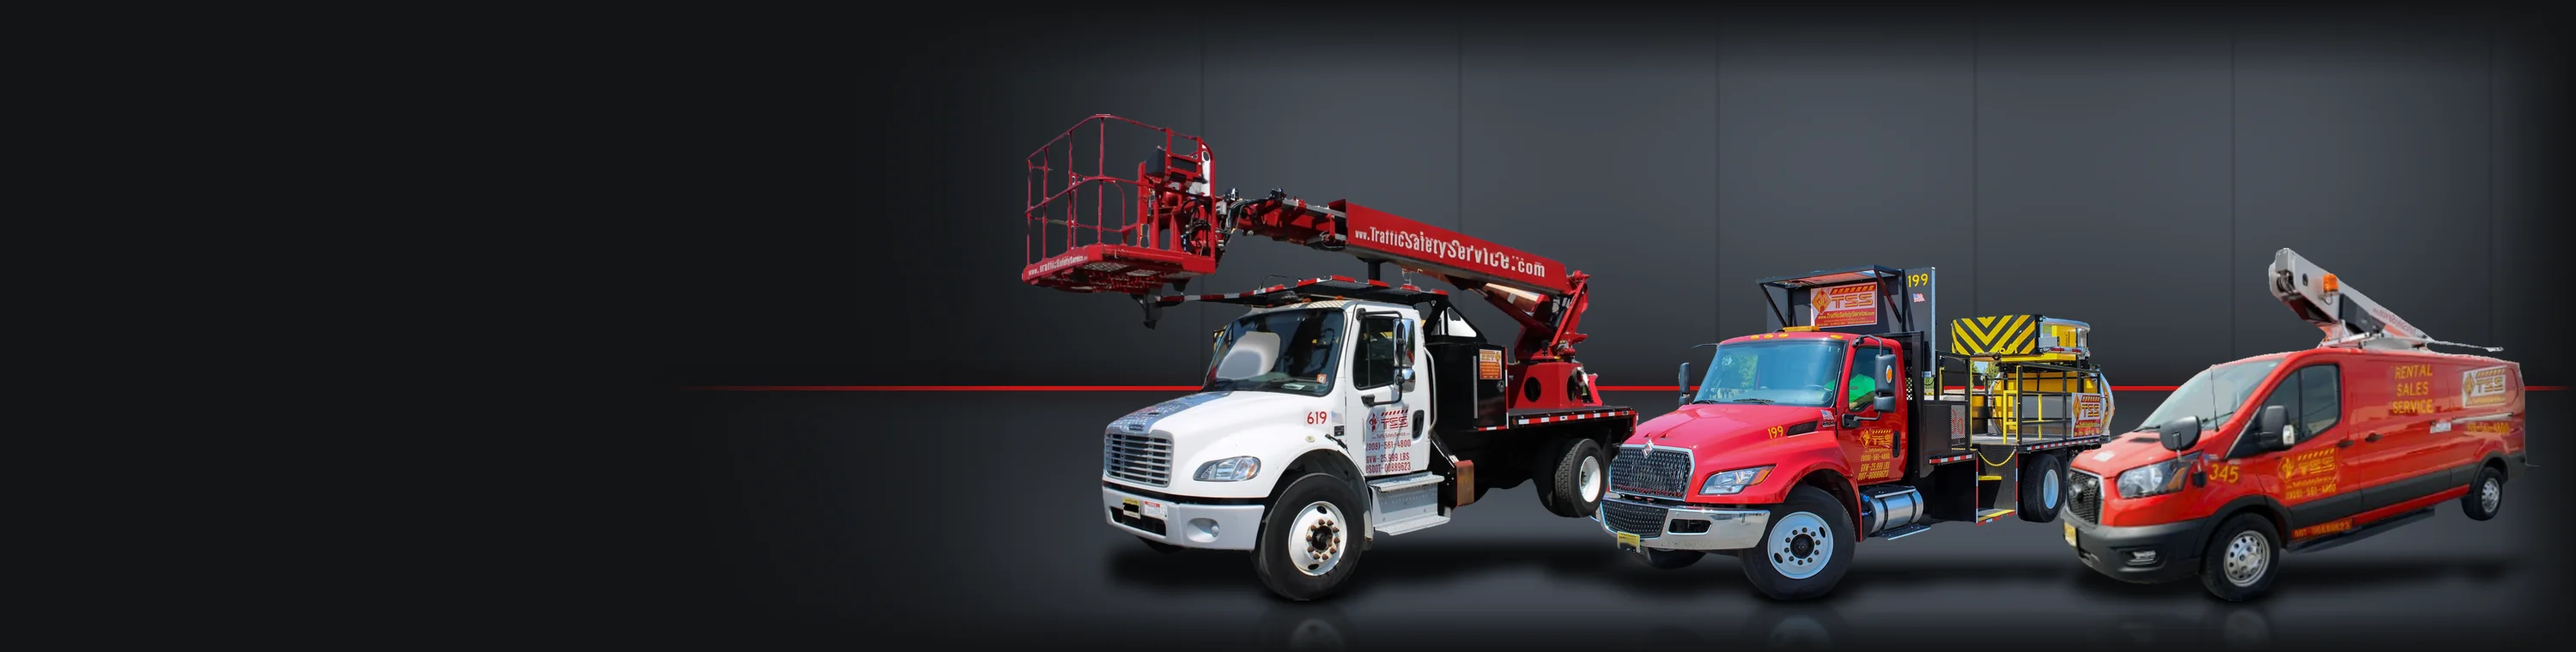
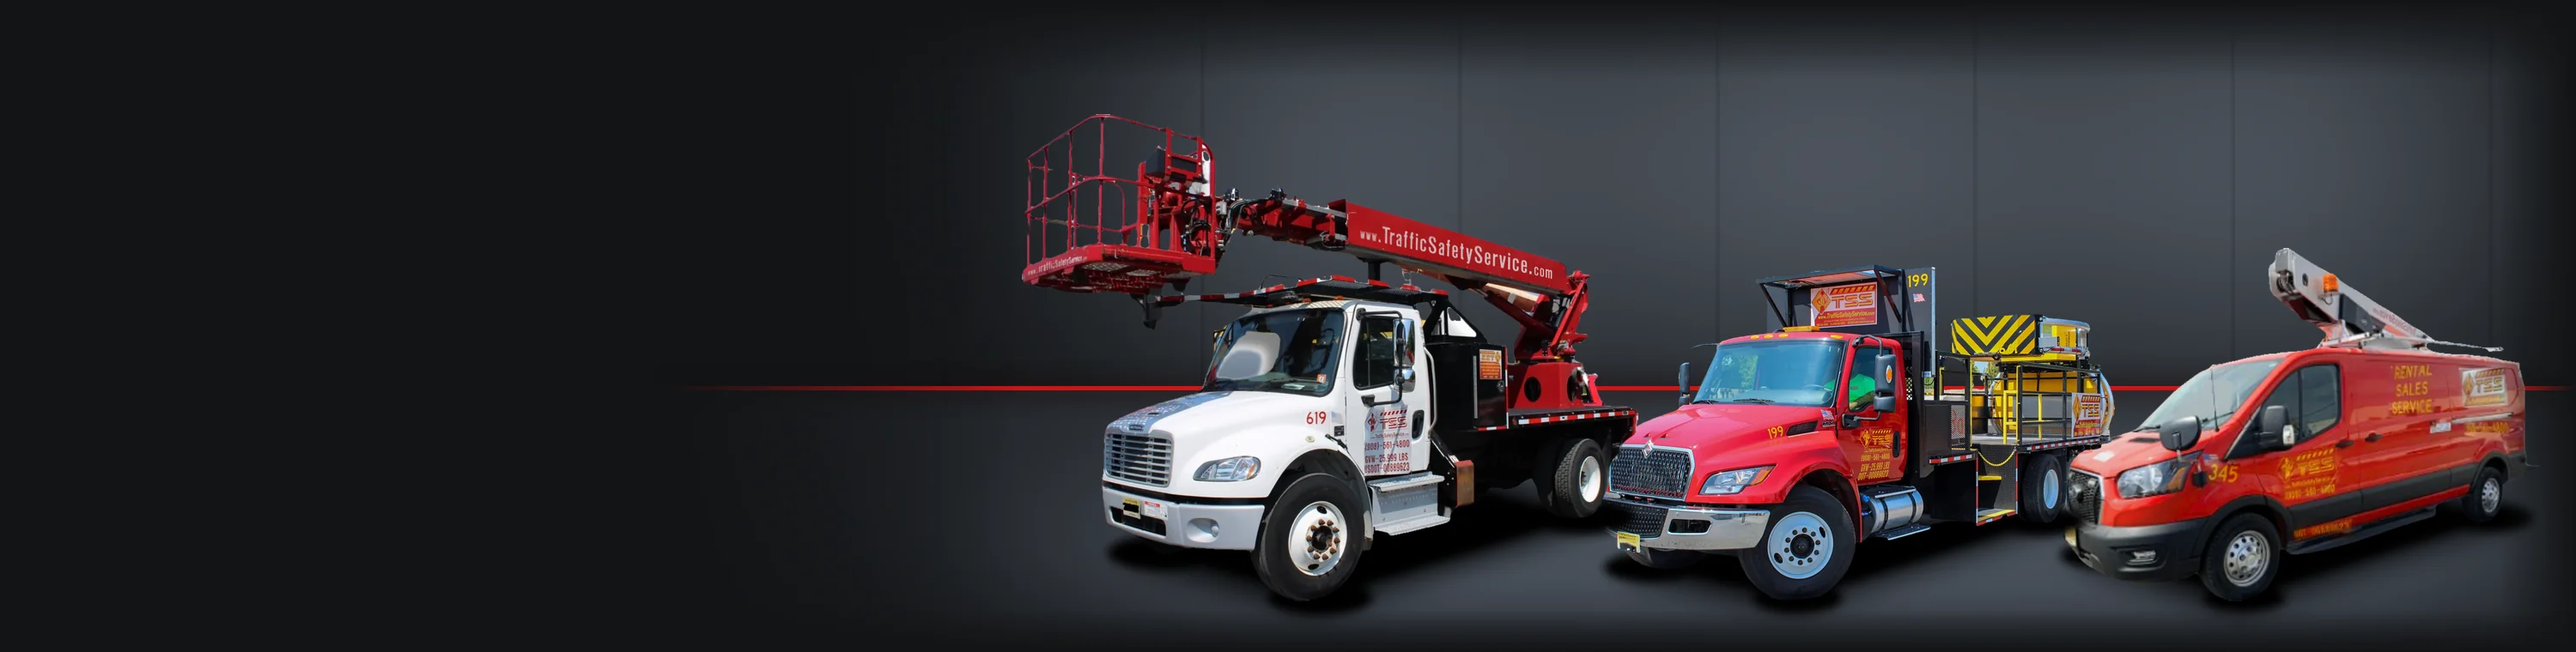
Truck showroom: ground shadows follow each truck's footprint, cleaner lettering, no floor reflections
Claude-Session: https://claude.ai/code/session_017gJRc21SduXVKPUbiaVmn2

diff --git a/src/lib/categories.js b/src/lib/categories.js
@@ -12,5 +12,5 @@ export const CATEGORY_META = {
   'sign-stands': { tint: '#ebebe8', img: '/cats/sign-stands.png', line: 'Keep signs standing.', sub: 'K-stands and tripods.' },
   deliniators: { tint: '#ffe7d2', img: '/cats/deliniators.png', line: 'Guide the lane.', sub: 'Ring-top and knob-top delineators and bases.' },
   'equipment-rentals': { tint: '#fff1c9', img: '/fleet/cut/vms.png', line: 'Boards, lights and more.', sub: 'VMS and arrow boards, light towers and traffic lights.', page: '/pages/equipment' },
-  'truck-rentals': { tint: '#ffdede', img: '/fleet/tma-side.png', line: 'A truck for every job.', sub: 'TMA crash trucks, bucket trucks, cone trucks and flatbeds.', page: '/pages/fleet', scene: '/fleet/showroom-trucks.webp' }
+  'truck-rentals': { tint: '#ffdede', img: '/fleet/tma-side.png', line: 'A truck for every job.', sub: 'TMA crash trucks, bucket trucks, cone trucks and flatbeds.', page: '/pages/fleet', scene: '/fleet/showroom-trucks.webp?v=2' }
 };
